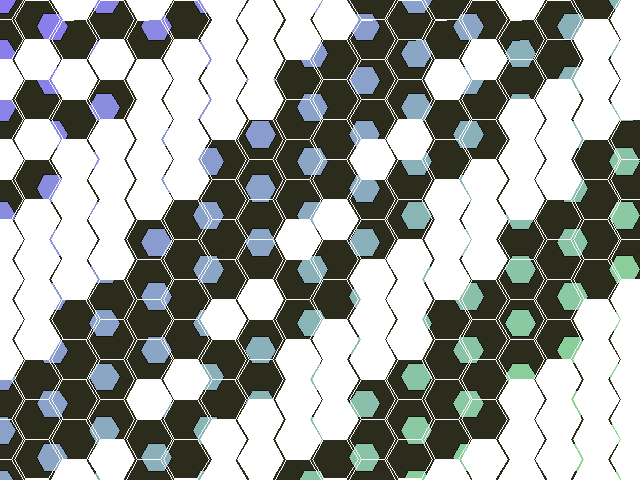
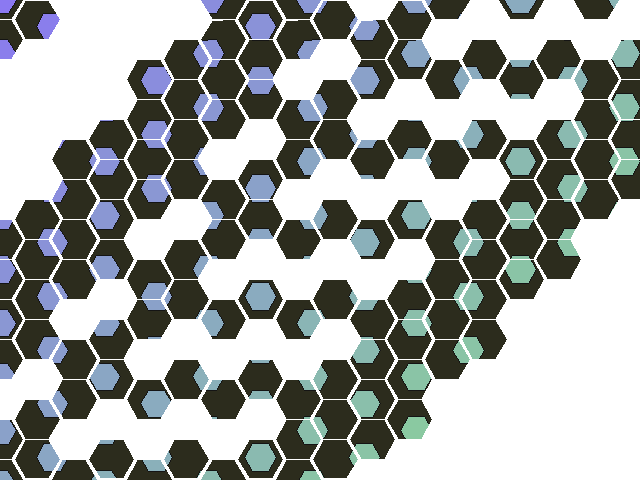
fixed image likes, fixed popular images ImageNotFound, fixed templates, tried to fix random images memory and resources consumption

diff --git a/api/services/random_images_service.py b/api/services/random_images_service.py
@@ -4,12 +4,9 @@ from pydantic import BaseModel
 from api.services import image_service
 from typing import Optional, Tuple, List
 from api.configs.database_config import db
-from concurrent.futures import ProcessPoolExecutor
 from api.configs.image_generator_config import image_generator
 from image_generator.image_generator import QueryFull, ImageMetadataFull
 from api.configs.process_executor_config import process_executor as random_process_executor
-
-#random_process_executor = ProcessPoolExecutor()
 
 
 POOL_SIZE = 50
@@ -40,18 +37,16 @@ async def store_random_image(query_id_to_remove: Optional[str] = None):
                                                   DEFAULT_MIN_LAYERS_COUNT,
                                                   DEFAULT_MAX_LAYERS_COUNT)
         try:
-            image, _ = await asyncio.wait_for(
-                loop.run_in_executor(
-                    random_process_executor,
-                    image_generator.generate_image_query_full,
-                    query_full
-                ),
-                timeout=TIMEOUT
+            image, _ = await loop.run_in_executor(
+                random_process_executor,
+                image_generator.generate_image_query_full,
+                query_full
             )
             image_id = await image_service.store_image(image)
             random_query = RandomQueryModel(query_full=query_full, image_id=image_id)
             await random_queries_collection.insert_one(random_query.model_dump())
             success = True
+            del image
         except Exception:
             pass
     if query_id_to_remove:
@@ -110,9 +105,10 @@ async def retrieve_random_images_bytes(count: int) -> List[Tuple[ImageMetadataFu
     )
     metadatas_images_bytes = []
     for document in documents:
-        metadata = ImageMetadataFull(**document["query_full"])
+        metadata = ImageMetadataFull(seed=None, **document["query_full"])
         image_bytes = await image_service.retrieve_image_bytes(document["image_id"])
         metadatas_images_bytes.append((metadata, image_bytes))
     for i in range(len(documents)):
-        queue.put_nowait((1, [documents_ids_strs[i]]))
+        if not queue.full():
+            queue.put_nowait((1, [documents_ids_strs[i]]))
     return metadatas_images_bytes

diff --git a/image_generator/image_generator.py b/image_generator/image_generator.py
@@ -18,7 +18,6 @@ class QueryFull(BaseModel):
     layer_query: LayerQuery
     width: int
     height: int
-    seed: Optional[int] = None
 
 
 class QueryRandom(BaseModel):
@@ -32,7 +31,7 @@ class QueryRandom(BaseModel):
 class ImageMetadataFull(BaseModel):
     width: int
     height: int
-    seed: int
+    seed: Optional[int]
     layer_query: LayerQuery
 
 
@@ -56,7 +55,8 @@ class ImageGenerator:
         width = query.width
         height = query.height
         layer_query = query.layer_query
-        seed = query.seed
+        # seed = query.seed
+        seed = None
         layer = Layer(layer_query, self.generators_dict)
         if not seed:
             seed = SeedGenerator().generate_seed()
@@ -72,7 +72,7 @@ class ImageGenerator:
         return image, metadata
 
     def __random_algorithm_query(self) -> LayerQuery:
-        algorithms = [algorithm for algorithm in self.algorithms if algorithm.name != "geometric_shape_algorithm"]
+        algorithms = self.algorithms
         algorithm: Algorithm = random.choice(algorithms)
         values = {parameter.name: parameter.random_value() for parameter in algorithm.parameters}
         return LayerQuery(name=algorithm.name,
@@ -122,8 +122,7 @@ class ImageGenerator:
         layer.generate_seed(layers_seed_generator)
         return QueryFull(width=width,
                          height=height,
-                         layer_query=layer_query,
-                         seed=seed)
+                         layer_query=layer_query)
 
     def generate_random_images(self,
                                query_random: QueryRandom) -> List[Tuple[Image, ImageMetadataFull]]:

diff --git a/api/services/popular_images_service.py b/api/services/popular_images_service.py
@@ -87,8 +87,11 @@ async def get_popular_images(page: Optional[int] = None,
     for doc in documents:
         metadata = StoredQueryFullInfo(**doc)
         metadata.query_id = str(doc["_id"])
-        image_bytes = await image_service.retrieve_image_bytes(metadata.image_id)
-        images_metadatas.append((image_bytes, metadata))
+        try:
+            image_bytes = await image_service.retrieve_image_bytes(metadata.image_id)
+            images_metadatas.append((image_bytes, metadata))
+        except Exception:
+            pass
     return images_metadatas
 
 

diff --git a/api/configs/process_executor_config.py b/api/configs/process_executor_config.py
@@ -1,3 +1,9 @@
+import multiprocessing
+import os
 from concurrent.futures import ProcessPoolExecutor
 
-process_executor = ProcessPoolExecutor()
+ctx = multiprocessing.get_context("spawn")
+process_executor = ProcessPoolExecutor(
+    mp_context=ctx,
+    max_workers=os.cpu_count()
+)
